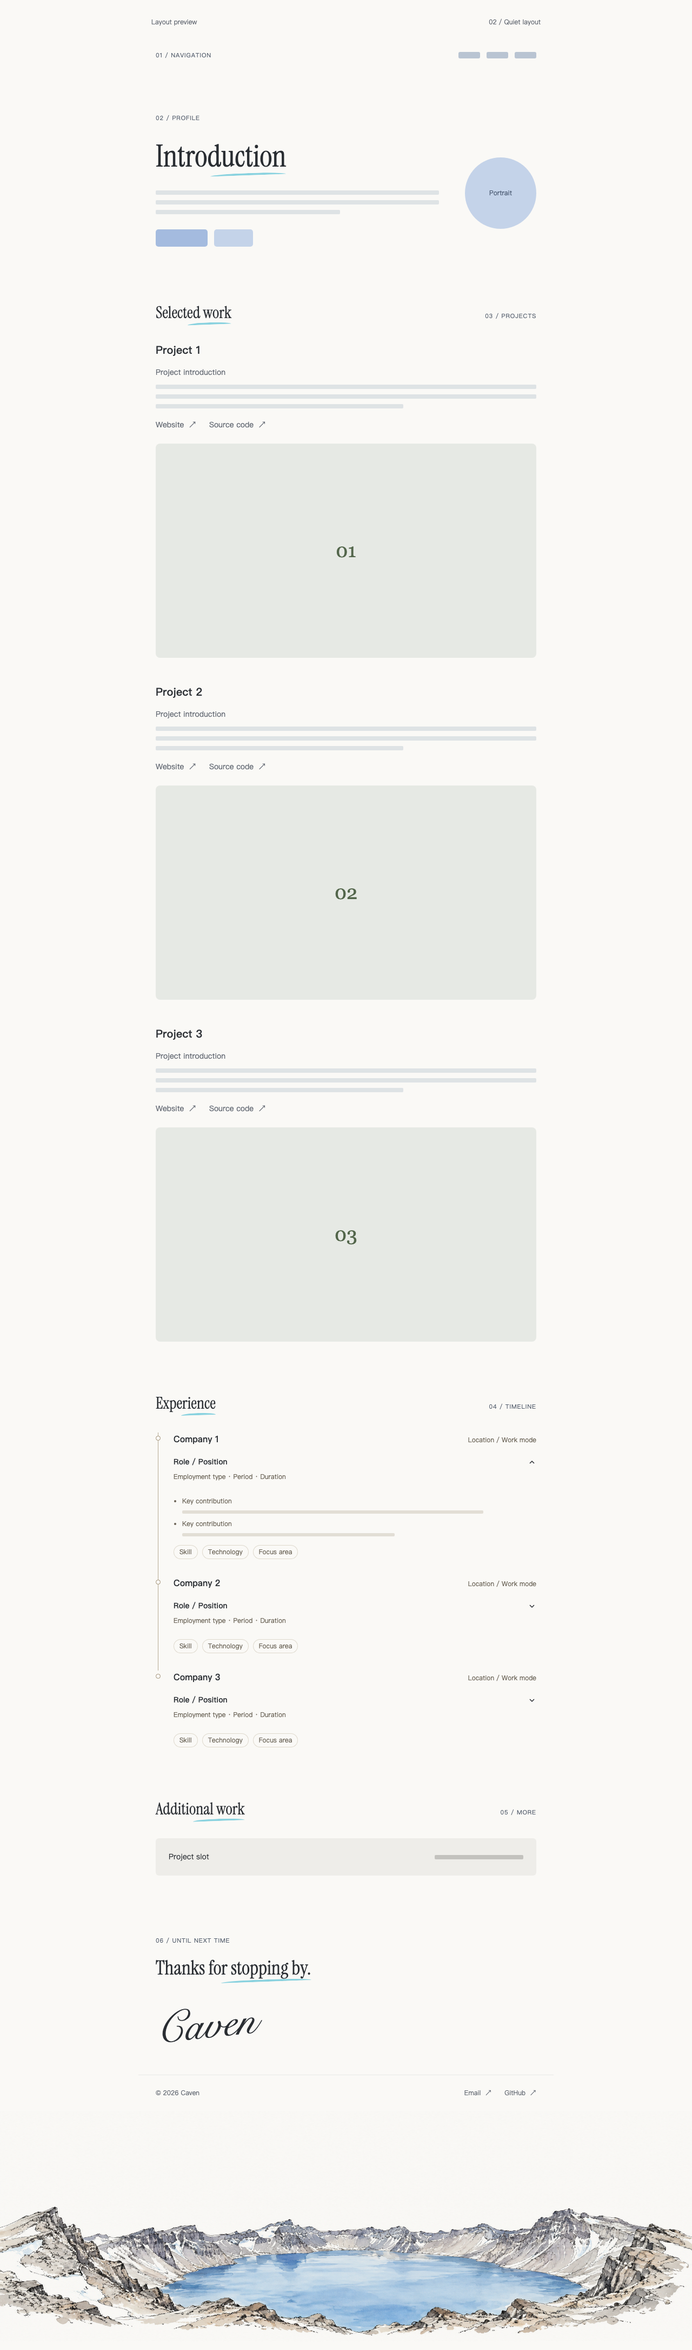
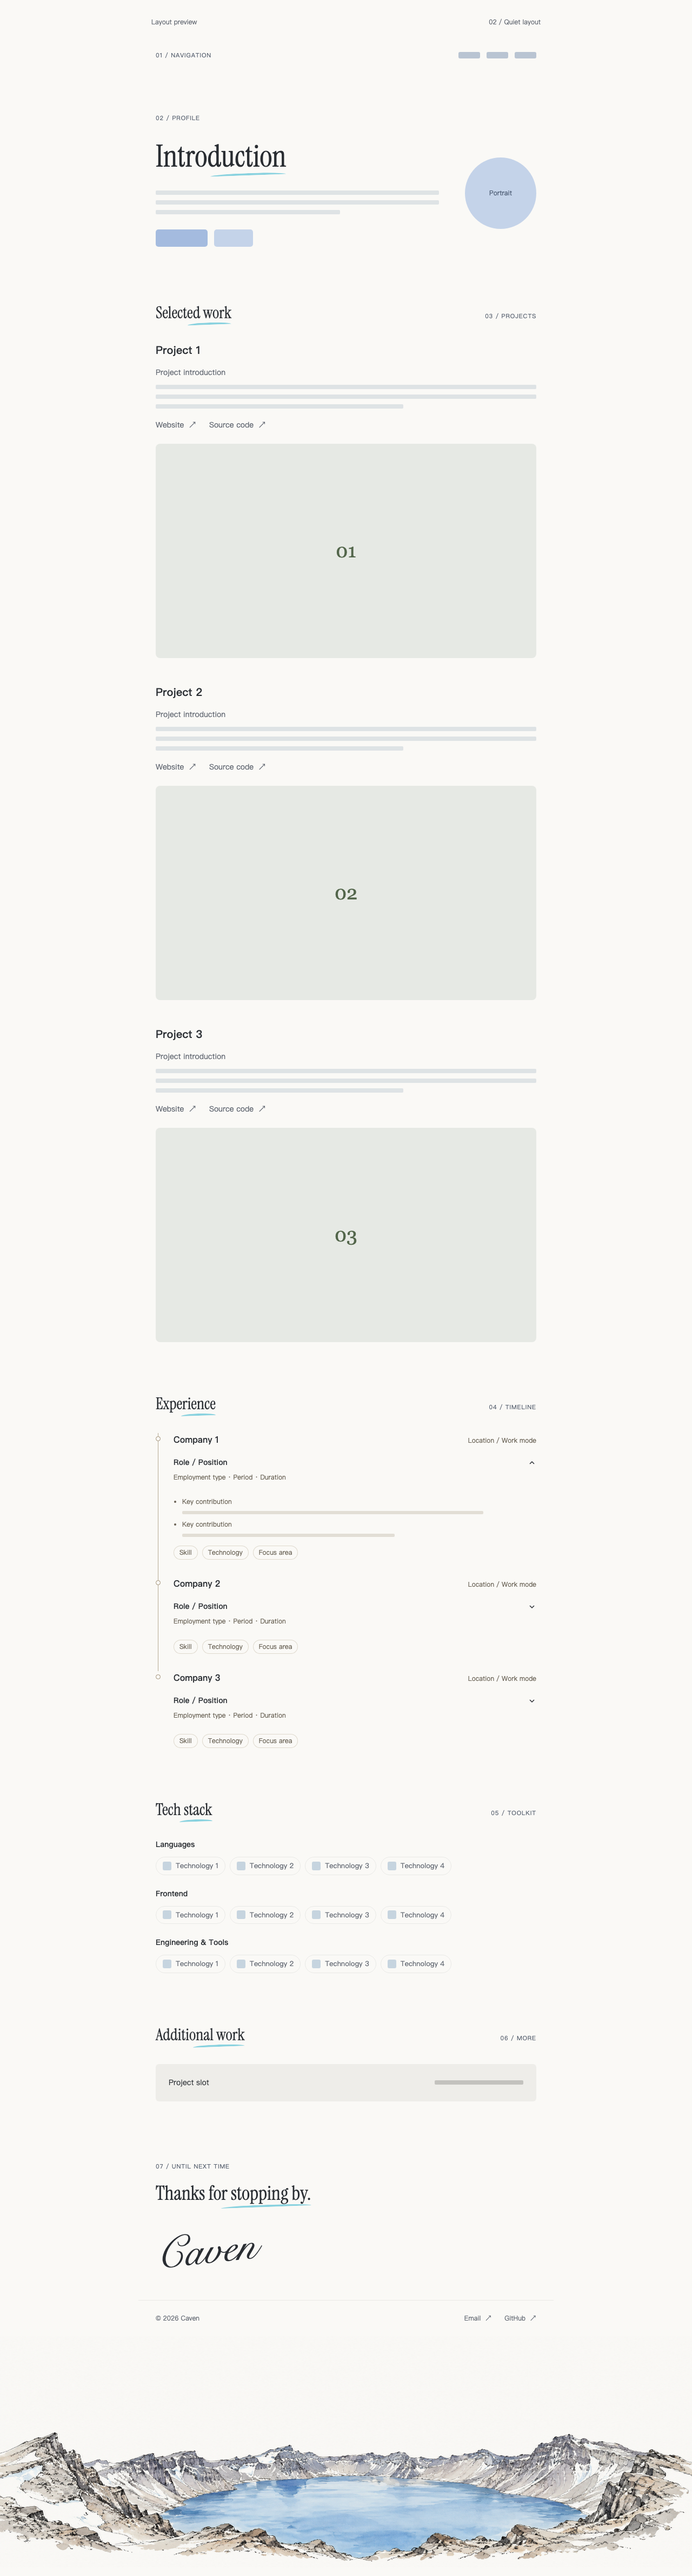
feat: preview compact grouped tech stack

diff --git a/tests/home.test.ts b/tests/home.test.ts
@@ -1,6 +1,6 @@
 import { expect, test } from "@playwright/test";
 
-test("homepage presents the six layout regions in reading order without overflow", async ({
+test("homepage presents the seven layout regions in reading order without overflow", async ({
   page,
 }, testInfo) => {
   const response = await page.goto("/");
@@ -10,6 +10,7 @@ test("homepage presents the six layout regions in reading order without overflow
     page.getByRole("region", { name: "Introduction", exact: true }),
     page.getByRole("region", { name: "Selected work", exact: true }),
     page.getByRole("region", { name: "Experience", exact: true }),
+    page.getByRole("region", { name: "Tech stack", exact: true }),
     page.getByRole("region", { name: "Additional work", exact: true }),
     page.getByRole("contentinfo"),
   ];

diff --git a/src/styles/global.css b/src/styles/global.css
@@ -436,3 +436,35 @@ h3 {
     padding-left: 20px;
   }
 }
+
+.stack-groups {
+  display: grid;
+  gap: 24px;
+}
+.stack-group h3 {
+  margin-bottom: 12px;
+}
+.stack-tags {
+  display: flex;
+  flex-wrap: wrap;
+  gap: 8px;
+  list-style: none;
+  padding: 0;
+  margin: 0;
+}
+.stack-tags li {
+  display: flex;
+  align-items: center;
+  gap: 8px;
+  padding: 6px 12px;
+  border: 1px solid #292d3214;
+  border-radius: 999px;
+  font-size: 13px;
+  color: #616771;
+}
+.stack-icon {
+  width: 16px;
+  height: 16px;
+  border-radius: 3px;
+  background: #c6d4df;
+}

diff --git a/docs/layout-review.md b/docs/layout-review.md
@@ -10,8 +10,8 @@ Keep the issue open and do not begin the next content ticket until approval is r
 - The latest revision removes continuous side rules and section borders, using
   warm white surfaces and whitespace. The Experience timeline and one faint
   footer metadata divider remain; project entries are text-led and have no card borders.
-- Six regions, separated by spacing and headings rather than colored panels: navigation, introduction,
-  selected work, experience, additional work, and footer.
+- Seven regions, separated by spacing and headings rather than colored panels: navigation, introduction,
+  selected work, experience, tech stack, additional work, and footer.
 - A generous introduction followed immediately by three vertically stacked project
   entries, each with title, introduction, optional destination placeholders, then
   a 16:9 image placeholder. No project detail pages are planned for the first release. Three independently collapsible timeline entries and one additional-work slot follow.
@@ -36,6 +36,14 @@ Keep the issue open and do not begin the next content ticket until approval is r
   real content wrapping, localization, and motion need later validation.
 - The temporary preview is marked `noindex`; production metadata belongs to the
   later release work and must replace this directive before launch.
+
+## Tech stack
+
+A compact Tech stack section sits after Experience and before Additional work.
+Three groups (Languages, Frontend, Engineering & Tools) contain 12 neutral icon
+and label placeholders. The content slice should select roughly 10–15 verified,
+regularly used technologies across 3–4 groups based on the resume and actual
+experience. Do not infer skills from reference logos or show proficiency scores.
 
 ## Header and footer direction
 
@@ -76,7 +84,7 @@ the phone uses 390 × 664 CSS pixels with the iPhone 13 device preset (3× raste
 
 ![Mobile layout](layout-evidence/mobile.png)
 
-All six regions remain readable and separate. Project entries remain in a single column on desktop and mobile without clipping. The built preview was also opened in
+All seven regions remain readable and separate. Project entries remain in a single column on desktop and mobile without clipping. The built preview was also opened in
 the Codex in-app browser at `http://127.0.0.1:4322` for interactive review.
 
 ## References inspected
@@ -104,7 +112,7 @@ navigation region did not exist. After implementation, both tests passed.
 - `pnpm exec vp run lint`: passed.
 - `pnpm exec vp run typecheck`: zero errors, warnings, or hints.
 - `pnpm exec vp run test`: full suite passed, 4/4; includes production build.
-- Browser assertions: HTTP 200, six visible regions in reading order, disjoint
+- Browser assertions: HTTP 200, seven visible regions in reading order, disjoint
   region bounds, horizontal containment, and three project slots.
 - Screenshots are generated by the test in `test-results/`; the reviewed copies
   above are committed so the PR can be reviewed without a local server.

diff --git a/README.md b/README.md
@@ -78,7 +78,7 @@ a successful lint/format run alone does not validate an Astro template.
 
 The shared Playwright suite observes the **built website through a browser**.
 It runs the homepage check at desktop and phone sizes, verifies a successful
-response, six visible regions in reading order, three project slots, and no
+response, seven visible regions in reading order, three project slots, and no
 horizontal overflow or overlapping regions.
 It always builds and starts its own preview on `127.0.0.1:4321`; stop any other
 server on that port first. Future slices should extend this suite at the same
